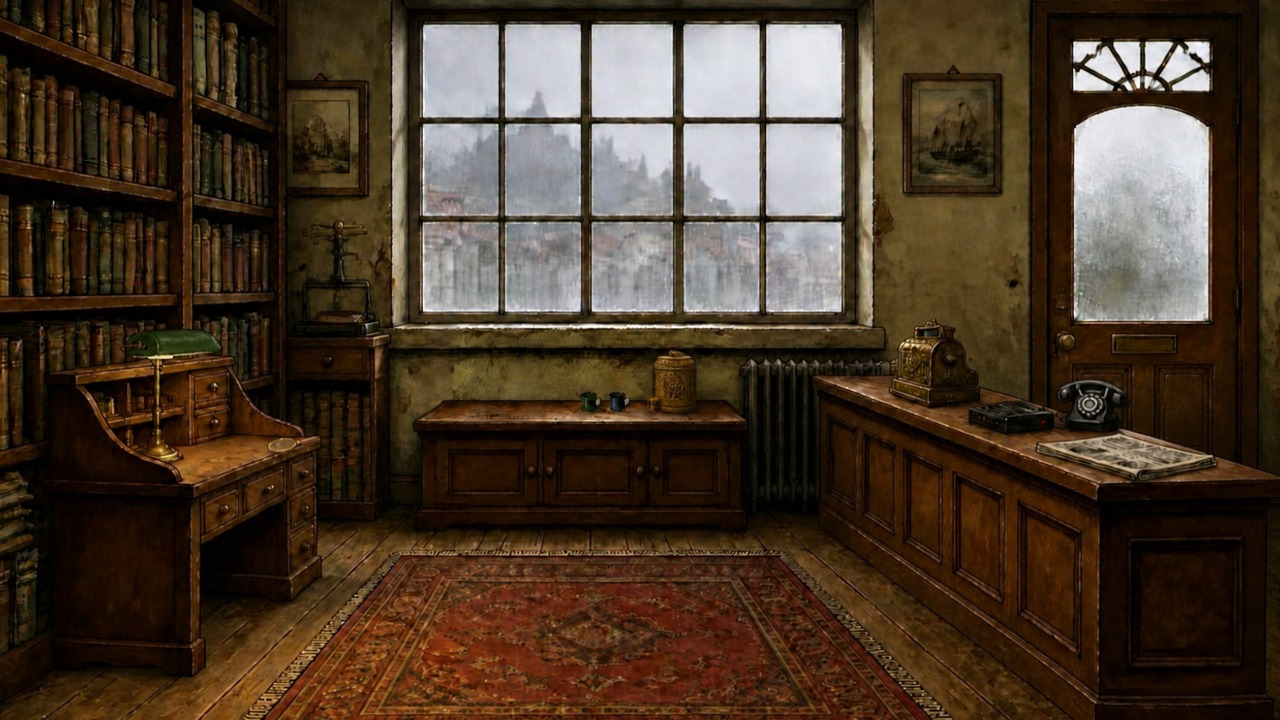
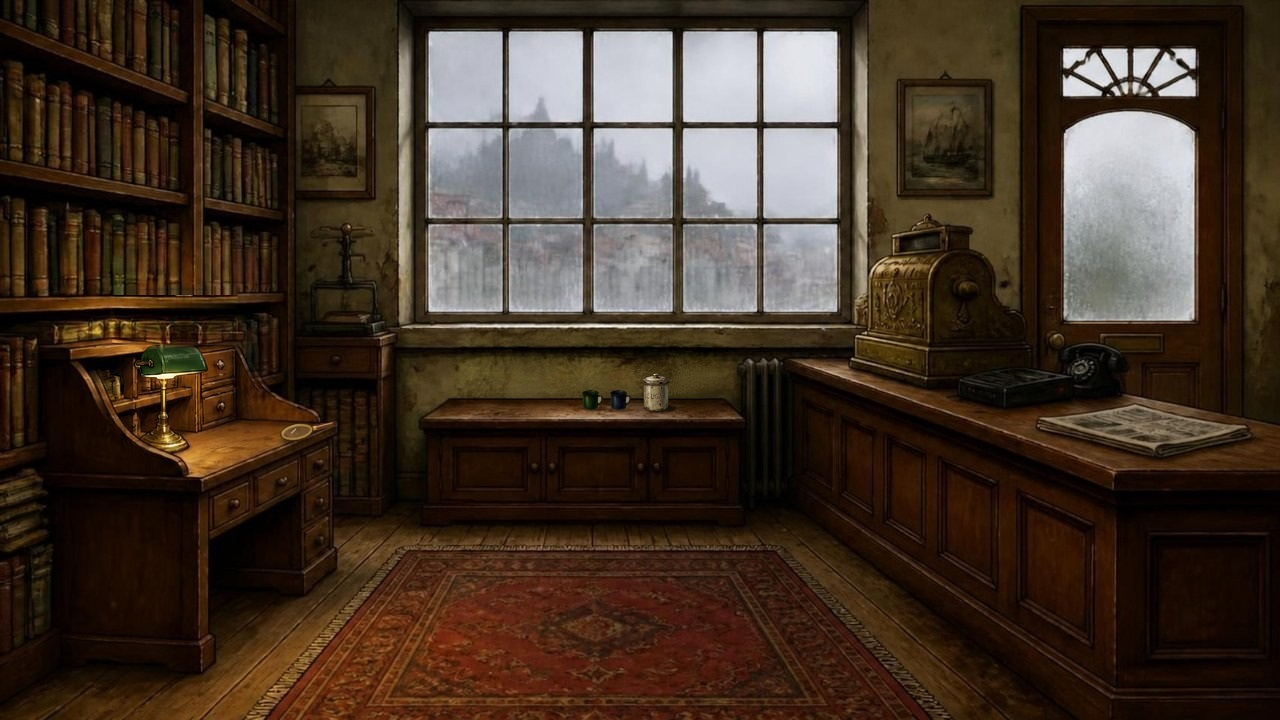
Shop at a real scale, second version: object patches on the original painting (lamp, till, machine, phone, newspaper, tin), shelf rebuilt from its own books; handoff 47
Claude-Session: https://claude.ai/code/session_016fnGpm29FQGh3o7RAuJp56

diff --git a/js/story/main.js b/js/story/main.js
@@ -309,41 +309,31 @@
         S.BATH_TALL = true;
       }
     }
-    // ?shop=new, for review: the shop repainted (Canva) with its things at a real size beside the people (the counter,
-    // the till turned to the door, the telephone and answering machine, the newspaper, the lamp, the sugar tin), the
-    // layout kept; art/review/bg/shop_new.jpg, day only for now. Everything placed on the painting moves with it.
+    // ?shop=new, for review: the shop's painting with its things at a real size beside the people, patched into the
+    // original (scripts/shop_patch.py: each object edited up close, pasted back only around itself, the rest of the
+    // painting its own pixels): the banker's lamp smaller, the till smaller and turned to the door, the answering
+    // machine, telephone and newspaper at real size, a bigger sugar tin. The layout is the original's, so the desk
+    // outline, the kettle, Inês's jobs and the depth map stay; only what sits on the changed objects moves. Day only (not the night painting).
     if (new URLSearchParams(location.search).get('shop') === 'new') {
       const R = S.ROOMS.shop, day = () => F().ch < 5;
-      const bgFn0 = R.bgFn; R.bgFn = () => day() ? '../review/bg/shop_new' : bgFn0(); R.bgs = (R.bgs || []).concat('../review/bg/shop_new');
-      R.parallax = false; // no depth map for it yet
-      // the grandfather desk (and its lamp) hides whoever stands behind it; its front pedestal stands on y 600
-      R.occluders = [{ y: 598, polys: [[[0, 326], [232, 326], [236, 384], [270, 410], [305, 430], [323, 442], [323, 600], [206, 602], [206, 672], [0, 692]]] }];
-      const H = { "Grandfather's desk": [45, 330, 280, 345], Ledger: [208, 470, 80, 32], "Banker's lamp": [118, 326, 110, 60], Window: [418, 18, 440, 300],
-        Kettle: [444, 376, 40, 40], 'Sugar tin': [650, 348, 50, 66], Radiator: [740, 355, 150, 150], 'Cash register': [885, 316, 100, 92],
-        'Answering machine': [966, 396, 92, 38], Telephone: [1054, 376, 74, 58], Newspaper: [1035, 430, 185, 52], 'Door to the street': [1035, 10, 225, 445] };
+      // (and its open-drawer and no-magnifier versions, patched alike)
+      const bgFn0 = R.bgFn; R.bgFn = () => day() ? bgFn0().replace(/^shop/, '../review/bg/shop_new') : bgFn0();
+      R.bgs = (R.bgs || []).concat(['', '_drawer', '_nomag', '_drawer_nomag'].map(v => '../review/bg/shop_new' + v)); R.depth = 'shop_depth';
+      const H = { "Banker's lamp": [130, 338, 82, 112], 'Sugar tin': [650, 370, 46, 46], 'Cash register': [896, 276, 106, 102],
+        'Answering machine': [968, 362, 86, 40], Telephone: [1048, 342, 66, 56], Newspaper: [1068, 408, 152, 46] };
       for (const h of R.hotspots) { const n = typeof h.name === 'function' ? null : h.name; if (H[n]) h.rect = H[n]; }
-      if (S.SIDEBOARD) Object.assign(S.SIDEBOARD, { kettle: [448, 413], book: [706, 413], scale: 0.85 }); // the kettle left of the mugs, her book right of the tin
-      if (S.INES_JOBS) { const d = S.INES_JOBS.find(j => j.k === 'dust'); if (d) d.at = [395, 640]; } // the desk is narrower
-      if (S.PESSOA_AT) Object.assign(S.PESSOA_AT, { desk: [258, 448, 'w'], radiator: [810, 360, 'w'], machine: [1010, 402, 'w'] });
-      const lights0 = R.lights; R.lights = () => (typeof lights0 === 'function' ? lights0() : lights0).map(l => l.x === 178 ? Object.assign({}, l, { x: 172, y: 343, floor: [172, 600] }) : l);
-      const lampOut0 = S.lampOut; S.lampOut = g => { g.save(); g.translate(128, 330); g.scale(0.88, 0.95); g.translate(-126, -290); lampOut0(g); g.restore(); };
-      const back0 = R.animBack, anim0 = R.anim;
-      R.animBack = function (g, t) {
-        if (!day()) return back0.call(this, g, t);
-        S.windowFog(g, t, [422, 24, 428, 292], '235,238,240', 0.16);
-        if (S.shopSideboard) S.shopSideboard(g);
-        g.save(); g.beginPath(); g.rect(422, 24, 428, 292); g.clip();
-        FX.birds(g, t + 4, { y0: 70, y1: 200, n: 2, period: 19, color: 'rgba(90,92,98,0.5)', size: 7, x0: 400, x1: 870 }); g.restore();
-        FX.wisps(g, t + 1, 619, 390, { n: 4, rise: 30, spread: 4, a: 0.07, size: 3, speed: 0.22 }); // the blue mug
-        FX.trickles(g, t, [424, 228, 424, 84], 5, '235,240,245', 0.3);
-        FX.passer(g, t, [1078, 110, 130, 205], 37); // behind the door's frosted glass
-      };
+      const lights0 = R.lights; R.lights = () => (typeof lights0 === 'function' ? lights0() : lights0).map(l => l.x === 178 ? Object.assign({}, l, { x: 170, y: 354 }) : l);
+      // the lamp switched off: the old shade's shadow, fitted to the smaller shade
+      const lampOut0 = S.lampOut; S.lampOut = g => { g.save(); g.translate(137, 345); g.scale(0.64, 0.66); g.translate(-126, -290); lampOut0(g); g.restore(); };
+      if (S.PESSOA_AT) Object.assign(S.PESSOA_AT, { machine: [1012, 394, 'w'] });
+      const anim0 = R.anim;
       R.anim = function (g, t) {
         if (!day()) return anim0.call(this, g, t);
+        // as anim0, with the machine's message light on the smaller machine
         if (F().lampOff) S.lampOut(g);
         FX.shaft(g, [[420, 30], [850, 30], [860, 716], [380, 716]], '210,220,230', 0.05); FX.motes(g, t, 420, 60, 430, 520, 40, '255,240,210');
-        if (!F().heard_machine && Math.floor(t * 2) % 2 === 0) FX.glow(g, 1042, 404, 10, '255,40,20', 0.9); // the machine's message light
-        if (F().ch === 3 && F().steaming && !(S.kettleHeld && S.kettleHeld())) FX.wisps(g, t, 476, 352, { n: 6, rise: 70, spread: 9, a: 0.14, size: 9 });
+        if (!F().heard_machine && Math.floor(t * 2) % 2 === 0) FX.glow(g, 1042, 386, 10, '255,40,20', 0.9);
+        if (F().ch === 3 && F().steaming && !(S.kettleHeld && S.kettleHeld())) FX.wisps(g, t, 520, 345, { n: 6, rise: 80, spread: 10, a: 0.14, size: 10 });
       };
       S.SHOP_NEW = true;
     }

diff --git a/scripts/shop_patch.py b/scripts/shop_patch.py
@@ -1,0 +1,44 @@
+# The shop at a real scale, as patches on the original painting: each object edited up close in a crop (Gemini,
+# art/review/shop/crops/) and pasted back only inside a box around the object, feathered, so the rest of the
+# painting keeps its own pixels (the books, the desk, the furniture's texture).
+#   python3 scripts/shop_patch.py [src.jpg] [out.jpg]     (default art/bg/shop.jpg -> art/review/bg/shop_new.jpg)
+import json, sys, numpy as np, cv2
+from PIL import Image
+D = 'art/review/shop/crops'
+src = sys.argv[1] if len(sys.argv) > 1 else 'art/bg/shop.jpg'
+out = sys.argv[2] if len(sys.argv) > 2 else 'art/review/bg/shop_new.jpg'
+crops = json.load(open(f'{D}/boxes.json'))
+# edited crop, and the box (in painting px) that takes it: the old object and the new one, with room to feather
+# (the counter takes two boxes: the till's, by the wall, and the counter top's under the door glass, which keeps its own)
+PATCH = {'lamp': ('lamp_edit.png', [(100, 345, 256, 452)]),  # the new lamp only; the shelf above it is rebuilt below 'counter': ('counter_edit2.png', [(842, 205, 1018, 474), (1018, 326, 1266, 474)]),
+         'tin': ('tin_edit.png', [(636, 346, 708, 418)])}
+base = np.asarray(Image.open(src).convert('RGB')).astype(np.float32)
+res = base.copy()
+for k, (f, boxes) in PATCH.items():
+    cx0, cy0, cx1, cy1 = crops[k]
+    ed = np.asarray(Image.open(f'{D}/{f}').convert('RGB').resize((cx1 - cx0, cy1 - cy0), Image.LANCZOS)).astype(np.float32)
+    full = base.copy(); full[cy0:cy1, cx0:cx1] = ed
+    m = np.zeros(base.shape[:2], np.float32)
+    for x0, y0, x1, y1 in boxes: m[y0:y1, x0:x1] = 1
+    m = cv2.GaussianBlur(m, (0, 0), 5)
+    res = res * (1 - m[..., None]) + full * m[..., None]
+# the shelf behind the old, bigger shade (x 112-238, y 288-345), rebuilt from the painting's own books, never repainted:
+# the standing books' bottoms carried straight down, then the plank and the lying books continued from their left
+src_img = base
+sh = res.copy()
+X0, X1, Y0, Y1 = 112, 238, 288, 345
+sh[Y0:295, X0:X1] = src_img[287:288, X0:X1]
+w = X0 - 40
+for x in range(X0, X1):
+    i = (x - X0) % (2 * w); sx = X0 - 1 - i if i < w else 40 + (i - w)   # mirrored, so the copies meet without a seam
+    sh[295:Y1, x] = src_img[295:Y1, sx]
+# then each row's light runs evenly from its left neighbour to its right one (the copies were lit differently)
+band = sh[295:Y1, X0:X1]
+smooth = cv2.GaussianBlur(band, (0, 0), sigmaX=14, sigmaY=1.5) + 1
+L = src_img[295:Y1, X0 - 8:X0].mean(1, keepdims=True); R = src_img[295:Y1, X1:X1 + 8].mean(1, keepdims=True)
+t = np.linspace(0, 1, X1 - X0)[None, :, None]
+sh[295:Y1, X0:X1] = band * ((L * (1 - t) + R * t + 1) / smooth)
+m = np.zeros(base.shape[:2], np.float32); m[Y0:Y1, X0:X1] = 1; m = cv2.GaussianBlur(m, (0, 0), 2)
+res = res * (1 - m[..., None]) + sh * m[..., None]
+Image.fromarray(np.clip(res, 0, 255).astype(np.uint8)).save(out, quality=94)
+print('wrote', out)

diff --git a/art/review/log.md b/art/review/log.md
@@ -2678,3 +2678,8 @@
 | 2026-10-22 03:23 | gemini-nano-banana-2.1 | art/sprites/npc_laundry.webp, art/sprites/npc_laundry_glance.webp | The same woman under the washing, same clothes, same body, standing in the same place at the same size and the same three-quarter view as the first image. Change only her face, head angle and hands to: A disdainful sniff: chin raised, nose up, eyes half closed, mouth pursed in disapproval, looking down her nose to the side. | art/review/laundry/npc_laundry_sniff.png | 5794/1680+1386 | 0.0695 |
 | 2026-10-22 03:24 | gemini-nano-banana-2.1 | art/sprites/npc_laundry.webp, art/sprites/npc_laundry_glance.webp | The same woman under the washing, same clothes, same body, standing in the same place at the same size and the same three-quarter view as the first image. Change only her face, head angle and hands to: Muttering to herself as she pegs the washing: eyes sliding sideways in disapproval, lips moving in a sour mutter, one hand at the line. | art/review/laundry/npc_laundry_mutter.png | 5794/1680+2082 | 0.0747 |
 | 2026-10-22 03:24 | gemini-nano-banana-2.1 | art/sprites/npc_laundry.webp, art/sprites/npc_laundry_glance.webp | The same woman under the washing, same clothes, same body, standing in the same place at the same size and the same three-quarter view as the first image. Change only her face, head angle and hands to: A sly, knowing smirk: one corner of her mouth up, eyebrows raised, eyes sideways, enjoying the gossip. | art/review/laundry/npc_laundry_smirk.png | 5788/1680+1490 | 0.0703 |
+| 2026-10-22 04:08 | gemini-nano-banana-2.1 | art/bg/shop.jpg | Keep this painting exactly as it is: same room, camera, layout, furniture, books, textures and painted detail; the grandfather desk, the bookshelves, the sideboard, the counter itself, the window, the door and the rug stay exactly as they are, at the same size. Change only these small things to a real-world size beside a man of 1.80 m standing in the room: (1) the green banker's lamp on the desk: a smaller, real-size banker's lamp in the same spot; (2) on the counter: the brass cash register at real size, turned so its keys and drawer face the shop door on the right and we see its plain back and side; the black cassette answering machine at real size, with its small red light; the black rotary dial telephone at real size, clearly recognisable, beside it; the folded newspaper at real size; (3) on the sideboard under the window: the small tin beside the mugs becomes a larger old painted sugar tin with a lid. Where the bigger objects stood, paint what is behind them (the wall, the door frame, the counter top) to match the painting. | art/review/shop/still_edit1.png | 4832/1680+1865 | 0.0716 |
+| 2026-10-22 04:09 | gemini-nano-banana-2.1 | art/review/shop/crops/tin.png | Keep this painting crop exactly as it is, same painted style, brushwork, light and every detail, at the same framing. Change only: the little tin on the sideboard next to the mugs becomes an old painted metal sugar tin with a lid, about twice the height of the mugs, standing on the same spot. Everything else stays exactly as it is. | art/review/shop/crops/tin_edit.png | 4664/1680+686 | 0.0625 |
+| 2026-10-22 04:09 | gemini-nano-banana-2.1 | art/review/shop/crops/lamp.png | Keep this painting crop exactly as it is, same painted style, brushwork, light and every detail, at the same framing. Change only: the green banker's lamp on the desk is too big: repaint it as a smaller, real-size brass banker's lamp with a green glass shade, about two thirds of its current size, standing on the same spot of the desk. Where the bigger shade was, paint the books and shelf behind it, matching the books around. The desk stays exactly the same. | art/review/shop/crops/lamp_edit.png | 4697/1680+1095 | 0.0657 |
+| 2026-10-22 04:09 | gemini-nano-banana-2.1 | art/review/shop/crops/counter.png | Keep this painting crop exactly as it is, same painted style, brushwork, light and every detail, at the same framing. Change only: the objects on the counter are far too big for people. Repaint them at real-world size on the same counter top: the brass cash register about half its current size, turned so its keys and cash drawer face the door on the right (we see its plain back and side); a real-size black cassette answering machine with a small red light; a real-size black rotary dial telephone beside it, clearly recognisable; a real-size folded newspaper. The counter's wood, the wall, the door and its frame stay exactly as they are; where the bigger objects stood, paint the wall and door frame behind them and the counter top, matching. | art/review/shop/crops/counter_edit.png | 4755/1680+1619 | 0.0697 |
+| 2026-10-22 04:10 | gemini-nano-banana-2.1 | art/review/shop/crops/counter_edit.png | Keep this painting crop exactly as it is, same painted style, light and framing; the counter's wood, the wall, the door and its frame stay exactly as they are. Change only the size of the four things on the counter, which are about twice too big: the cash register (seen from the back, as now) shrunk to HALF its current height and width, standing at the back of the counter by the wall; the black answering machine shrunk to half its size; the black dial telephone shrunk to two thirds of its size, still clearly recognisable, with its handset and dial; the folded newspaper shrunk to half its size. Where they took up more room before, paint the counter top, the wall and the door frame behind them, matching. | art/review/shop/crops/counter_edit2.png | 4745/1680+1357 | 0.0677 |

diff --git a/docs/animation_handoff.md b/docs/animation_handoff.md
@@ -949,6 +949,17 @@ session lived in the session's scratchpad and are gone; everything that matters 
      before/after slider, the verdict in its database at `shop/verdict`).
    - Still to do on approval: night, drawer-open and no-magnifier versions in the same style, a depth map, then make it
      the room's painting (that changes `art/bg/`, so only with the user's go-ahead).
+   - **Rejected, redone as patches** (the user: "The texture of the image became lower quality, especially visible
+     on the furniture. The books lost their shape too. Also, I did nt ask to scale down the desk, it was right scale,
+     only the lamp on it was bit too big"; then "the book shapes are distorted"). A whole-painting Gemini edit
+     (`still_edit1`) changed too little and blackened the counter; so each object is edited in a crop at 2-3x
+     (`art/review/shop/crops/`: lamp, counter (two passes: turned, then half size), tin) and `scripts/shop_patch.py`
+     pastes each back only inside boxes around it (feathered; the counter's box split so the door glass keeps its own
+     pixels). The shelf behind the old shade is rebuilt from the painting's own books (standing books' bottoms carried
+     down, plank and lying books continued from their left, mirrored, light evened along each row), never repainted.
+     The drawer / no-magnifier variants patched alike (`art/review/bg/shop_new_*.jpg`); the night painting not yet.
+     `?shop=new` now keeps the original layout, desk outline, kettle, jobs and depth map; only the six hotspots, the
+     lamp light / off-look, the machine's light and Pessoa's machine spot move. The page (same link) re-recorded.
 
 ## Archive: the handoff of 2026-10-20 (superseded by "Start here"; history only)
 
